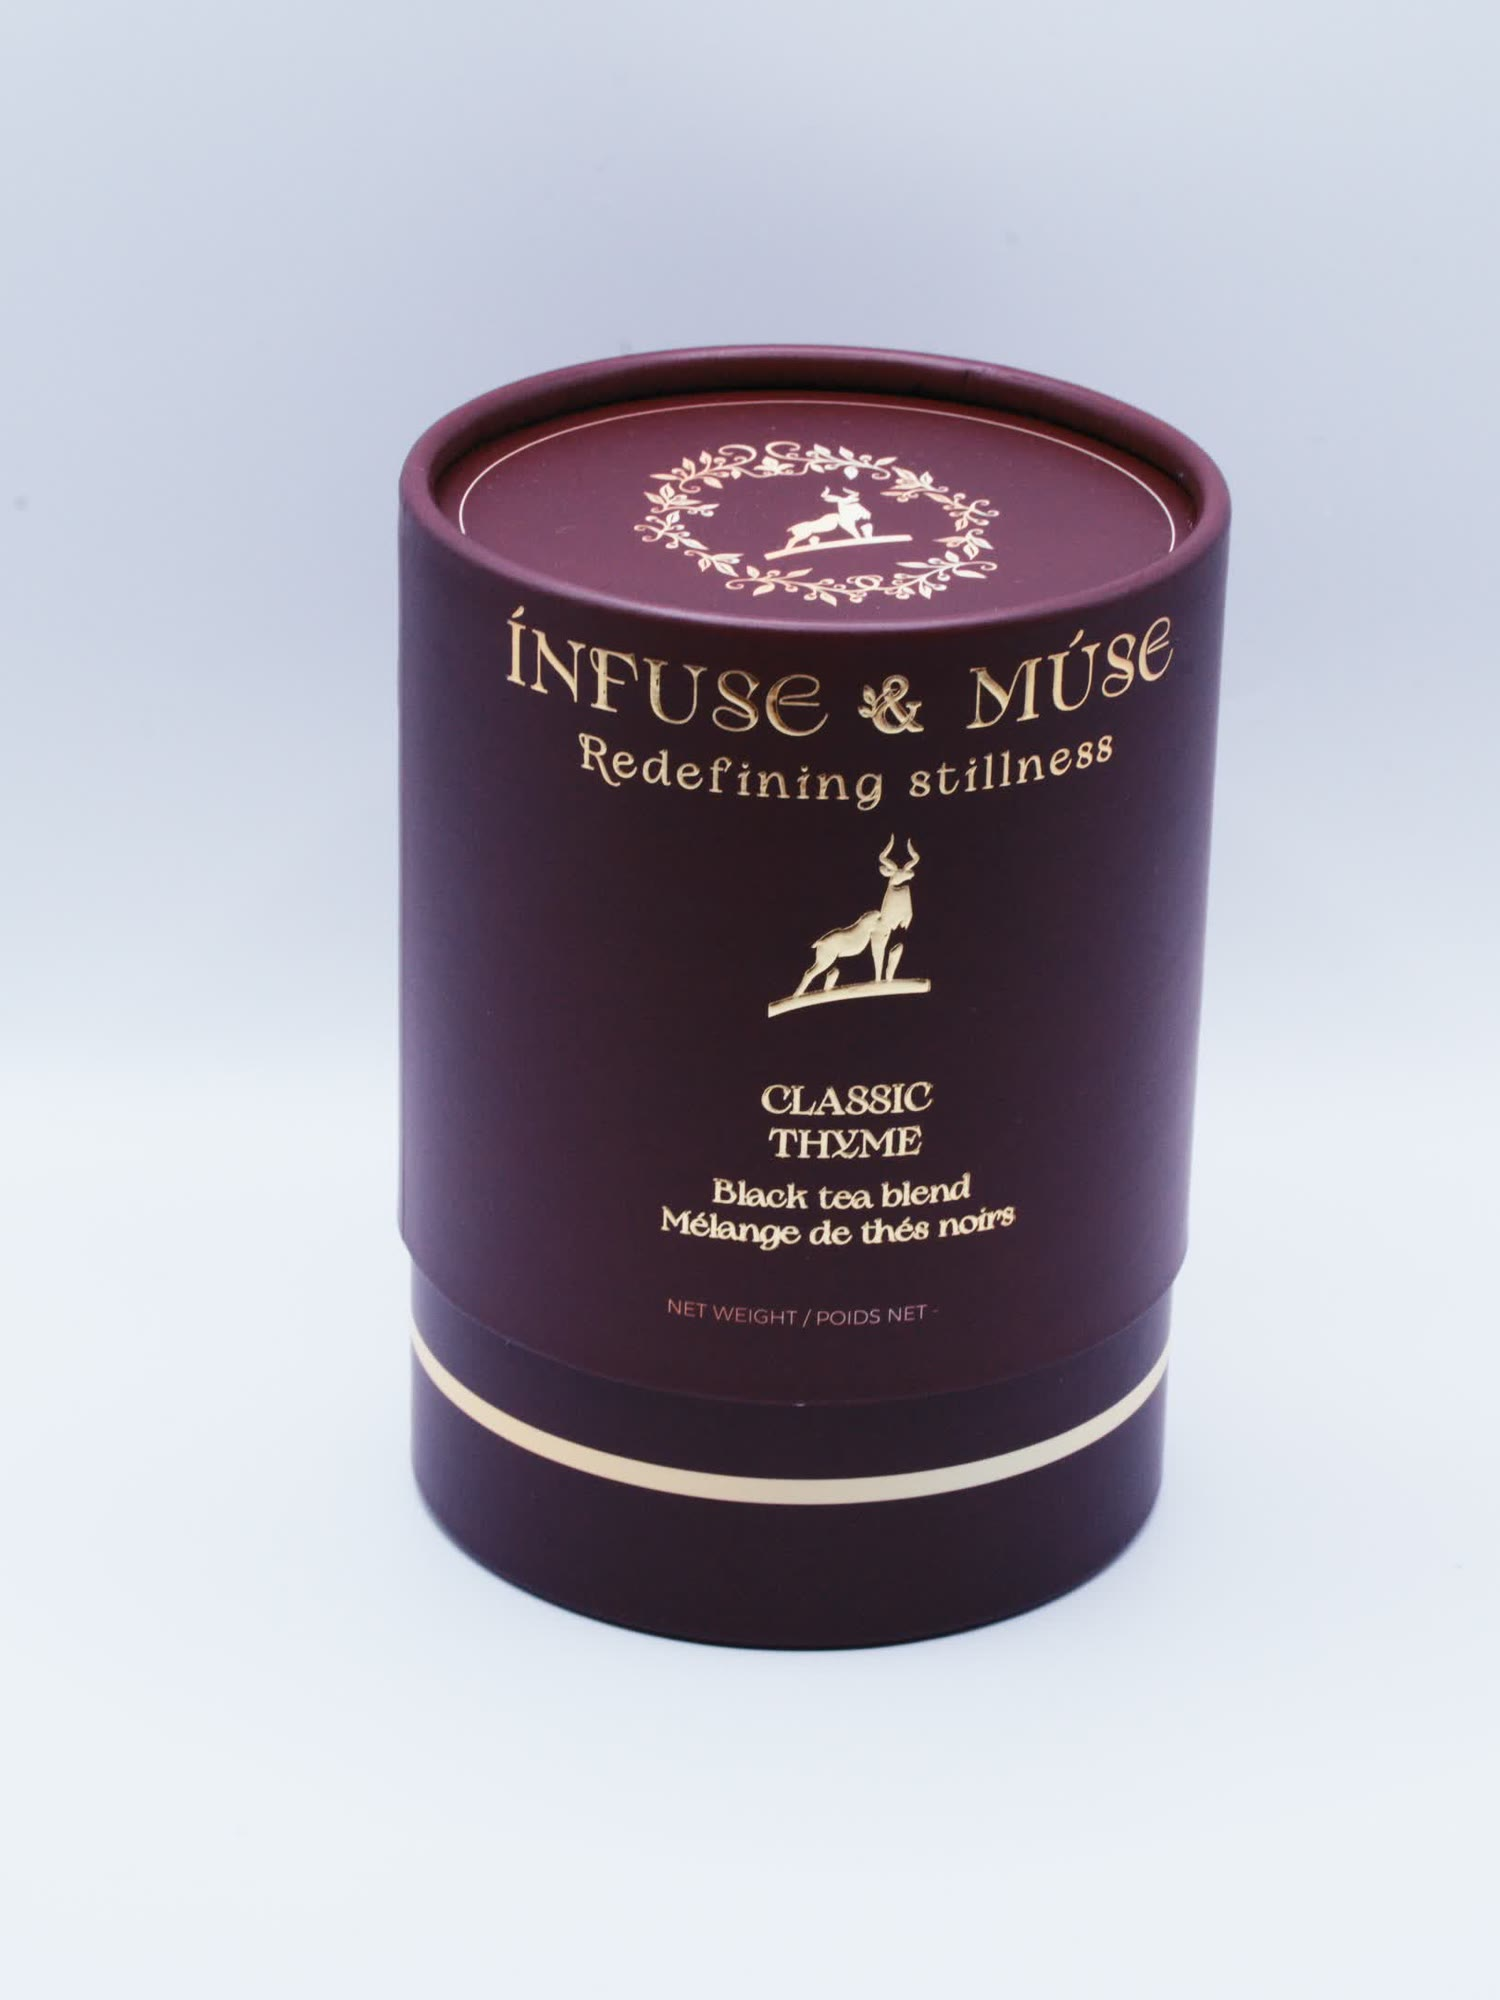
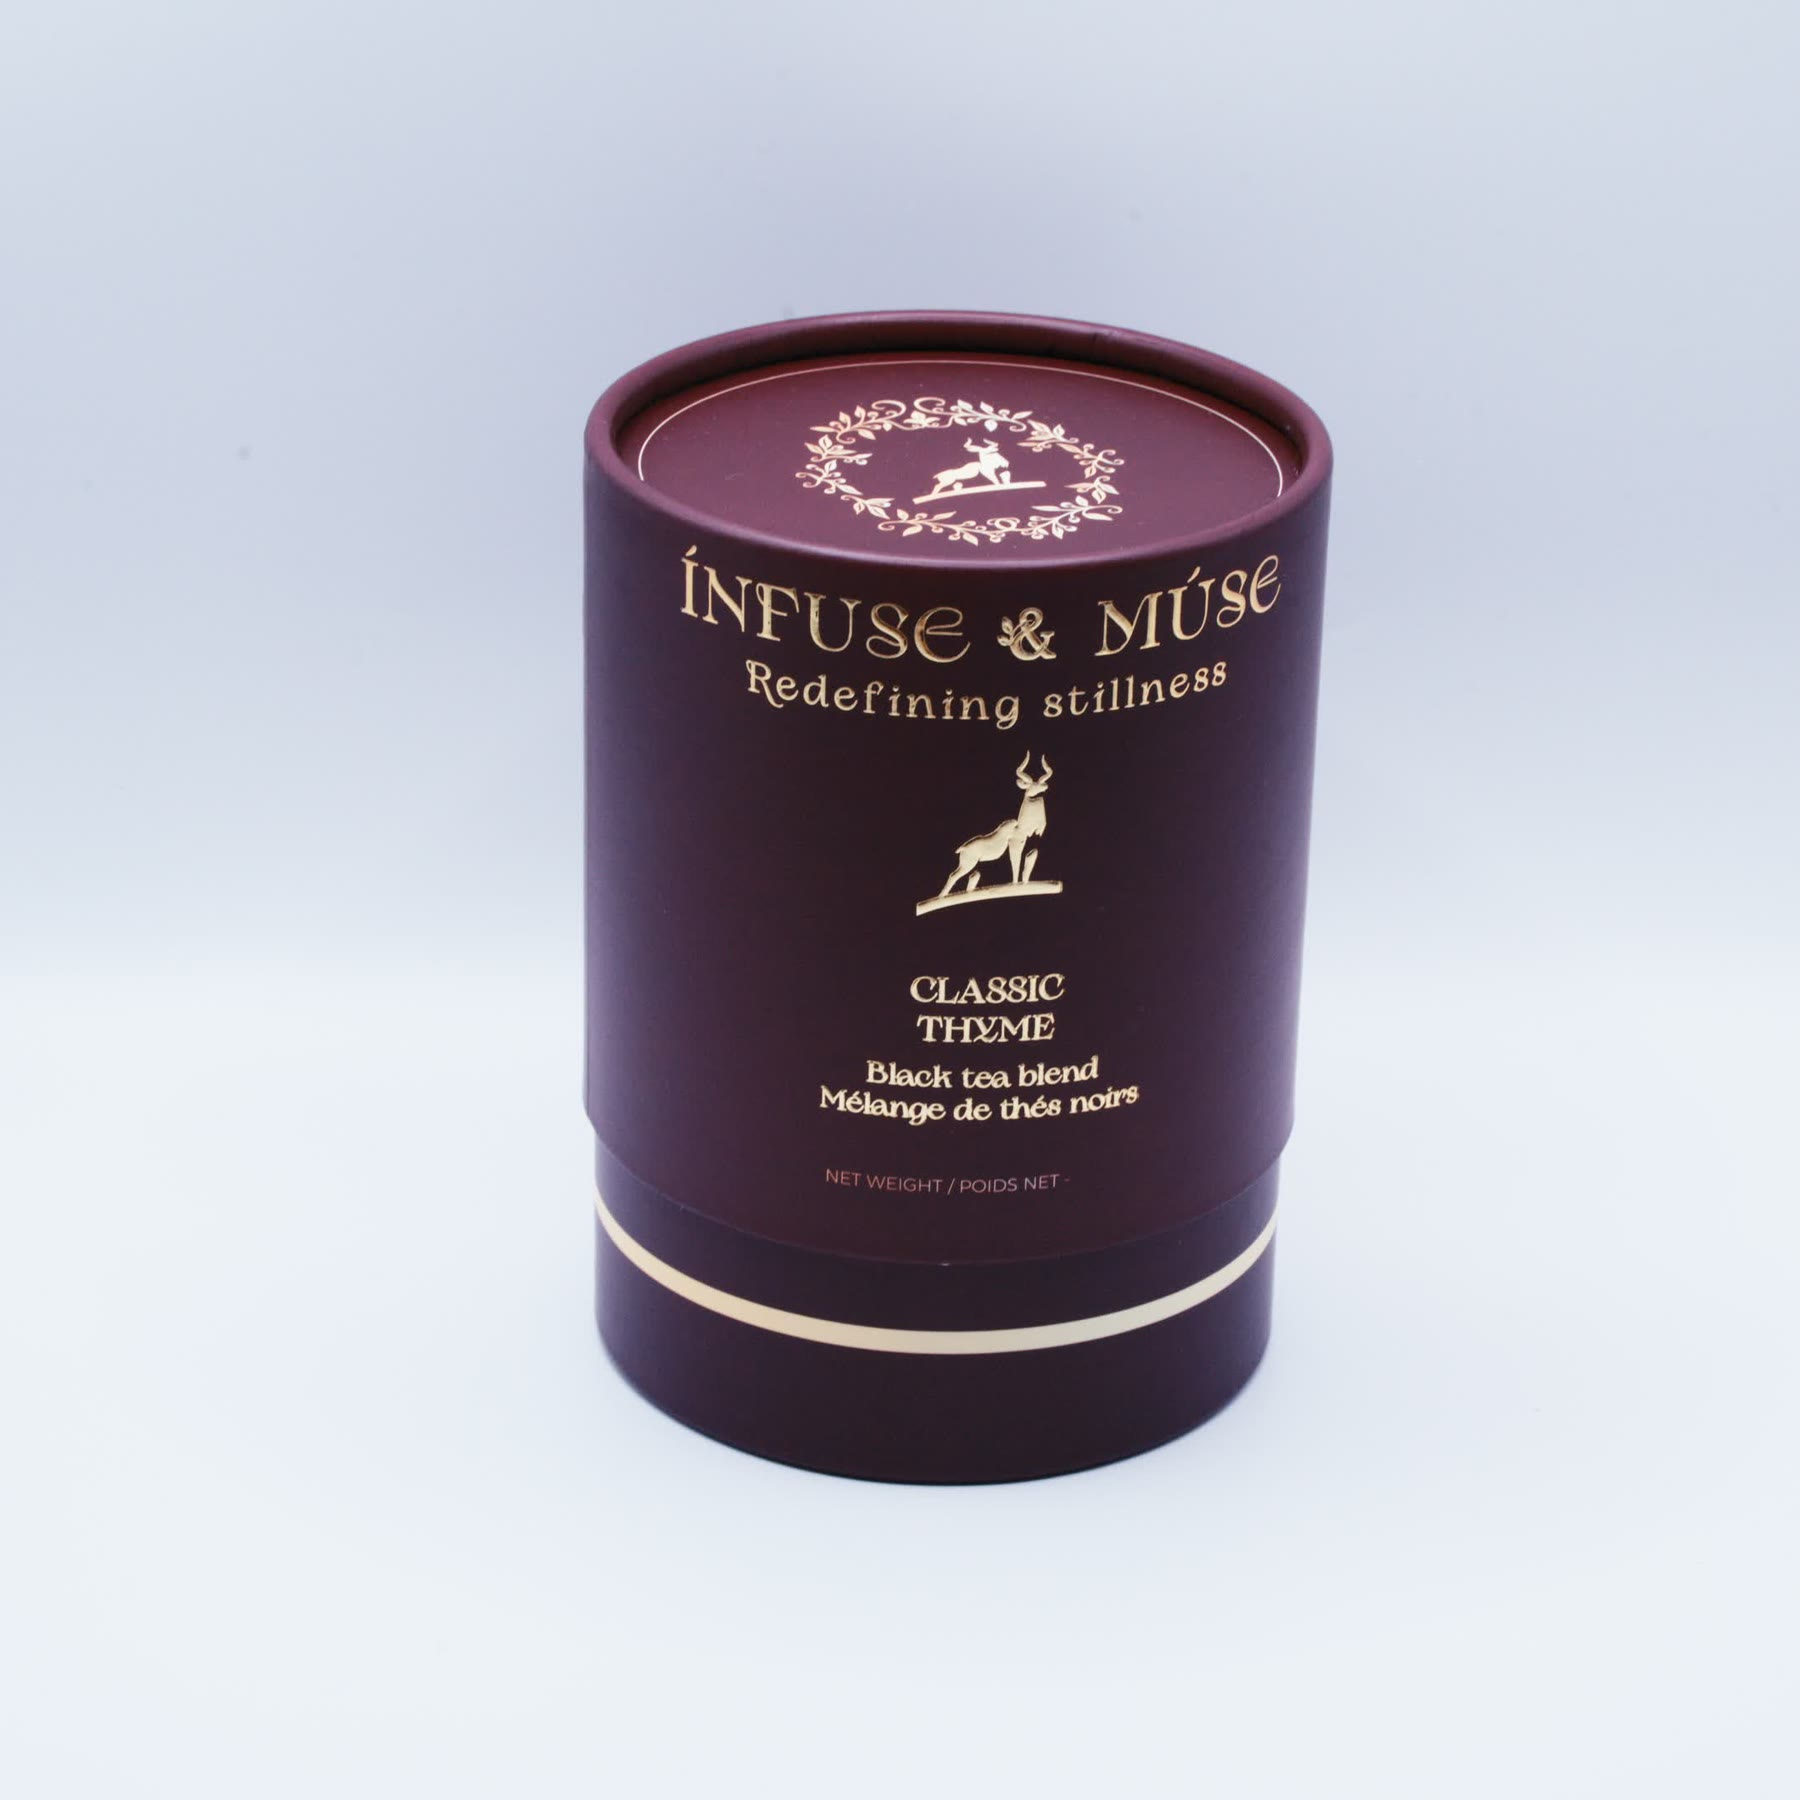
Fill the product-page photo edge to edge, no blurred side bands
The 3:4 shots could not fill the product column, which is roughly square
on a laptop, so a blurred copy padded the sides. The owner disliked the
bands. The photos are now square crops of the original frames with the
tin centred and room around it, and the page covers the column with a
single image: only background is trimmed, never the lid. Cards are 3:4
and already covered their frame, so they show the same as before.

diff --git a/apps/web/app/(site)/products/[slug]/page.tsx b/apps/web/app/(site)/products/[slug]/page.tsx
@@ -54,19 +54,11 @@ export default async function ProductDetailPage({ params }: { params: { slug: st
       <SchemaScript data={schema} />
 
       <div className="grid lg:grid-cols-2">
-        {/* The photograph holds its own column and is never cropped: a blurred
-            copy of itself fills whatever the column's shape leaves over. On
+        {/* The photograph fills its column edge to edge. The source shots are
+            square with the tin centred and room around it, so covering a
+            roughly square column only trims background, never the lid. On
             large screens it sits below the fixed header, not under it. */}
         <div className="plate relative mt-[var(--header-h)] aspect-[4/5] lg:sticky lg:top-[var(--header-h)] lg:mt-0 lg:aspect-auto lg:h-[calc(100svh-var(--header-h))]">
-          <ThemedImage
-            src={product.image}
-            srcLight={product.imageLight}
-            alt=""
-            aria-hidden
-            fill
-            sizes="(max-width: 1024px) 100vw, 50vw"
-            className="scale-110 object-cover opacity-70 blur-2xl"
-          />
           <ThemedImage
             src={product.image}
             srcLight={product.imageLight}
@@ -74,7 +66,7 @@ export default async function ProductDetailPage({ params }: { params: { slug: st
             fill
             priority
             sizes="(max-width: 1024px) 100vw, 50vw"
-            className="object-contain"
+            className="object-cover"
           />
         </div>
 
